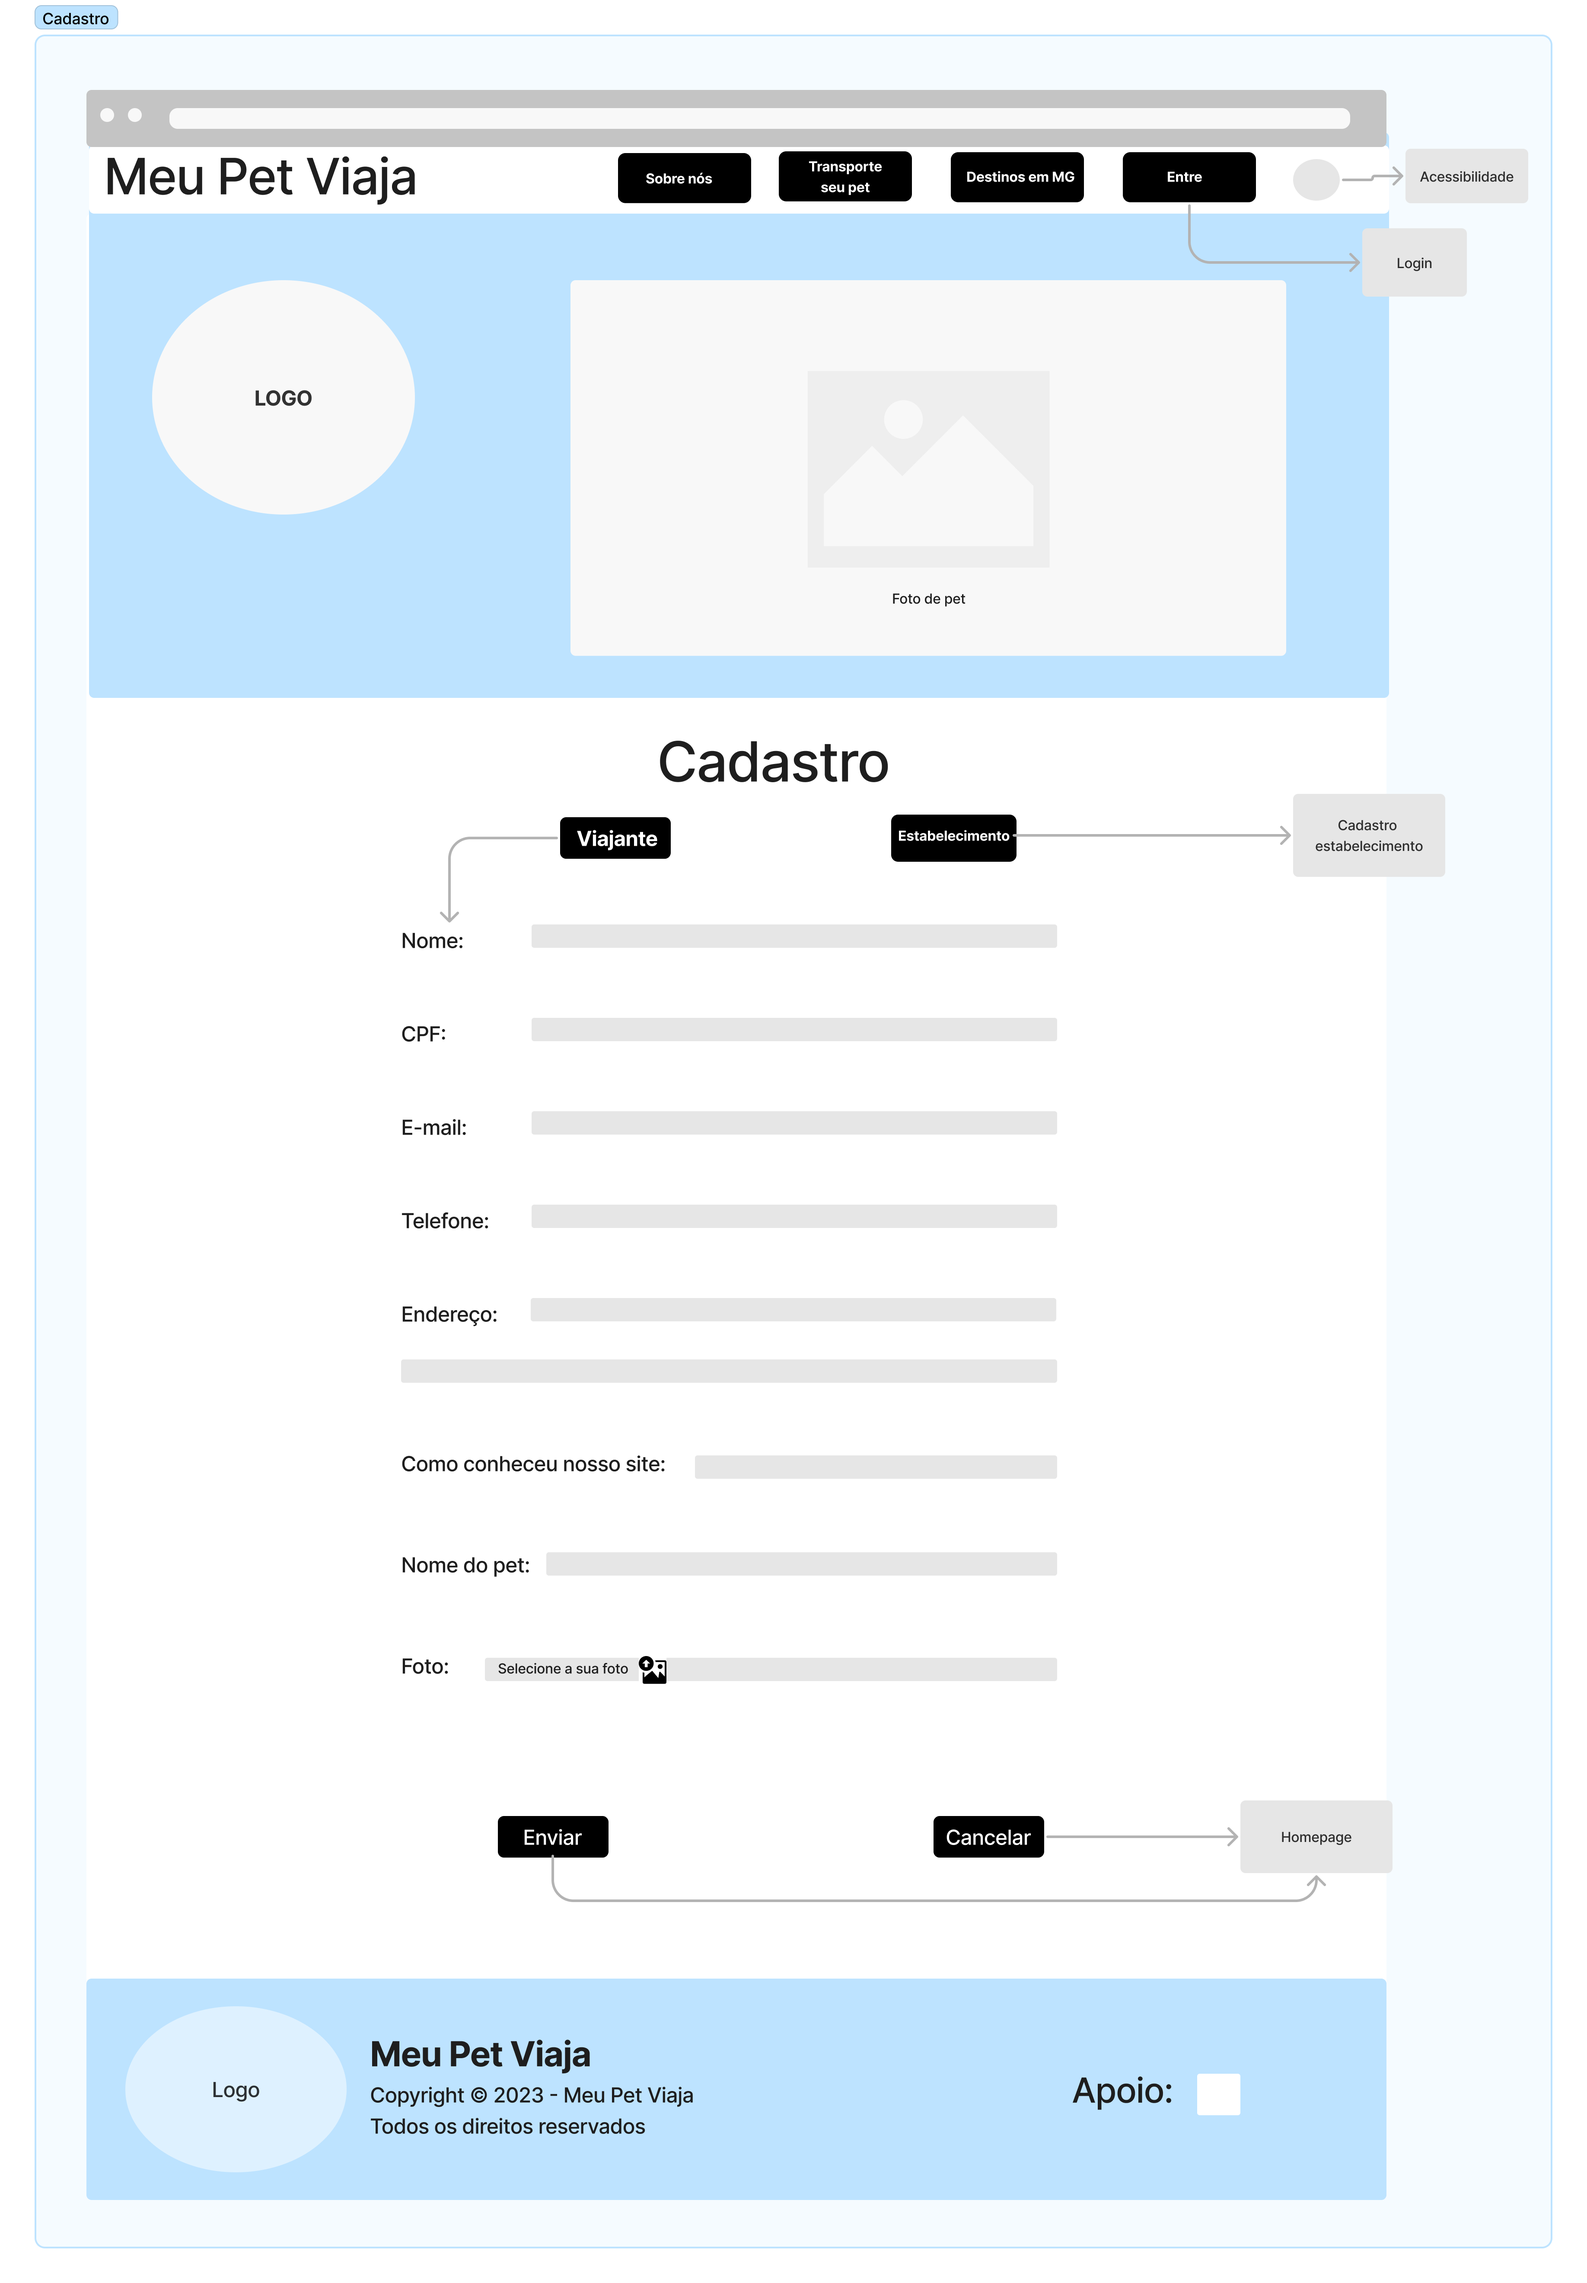
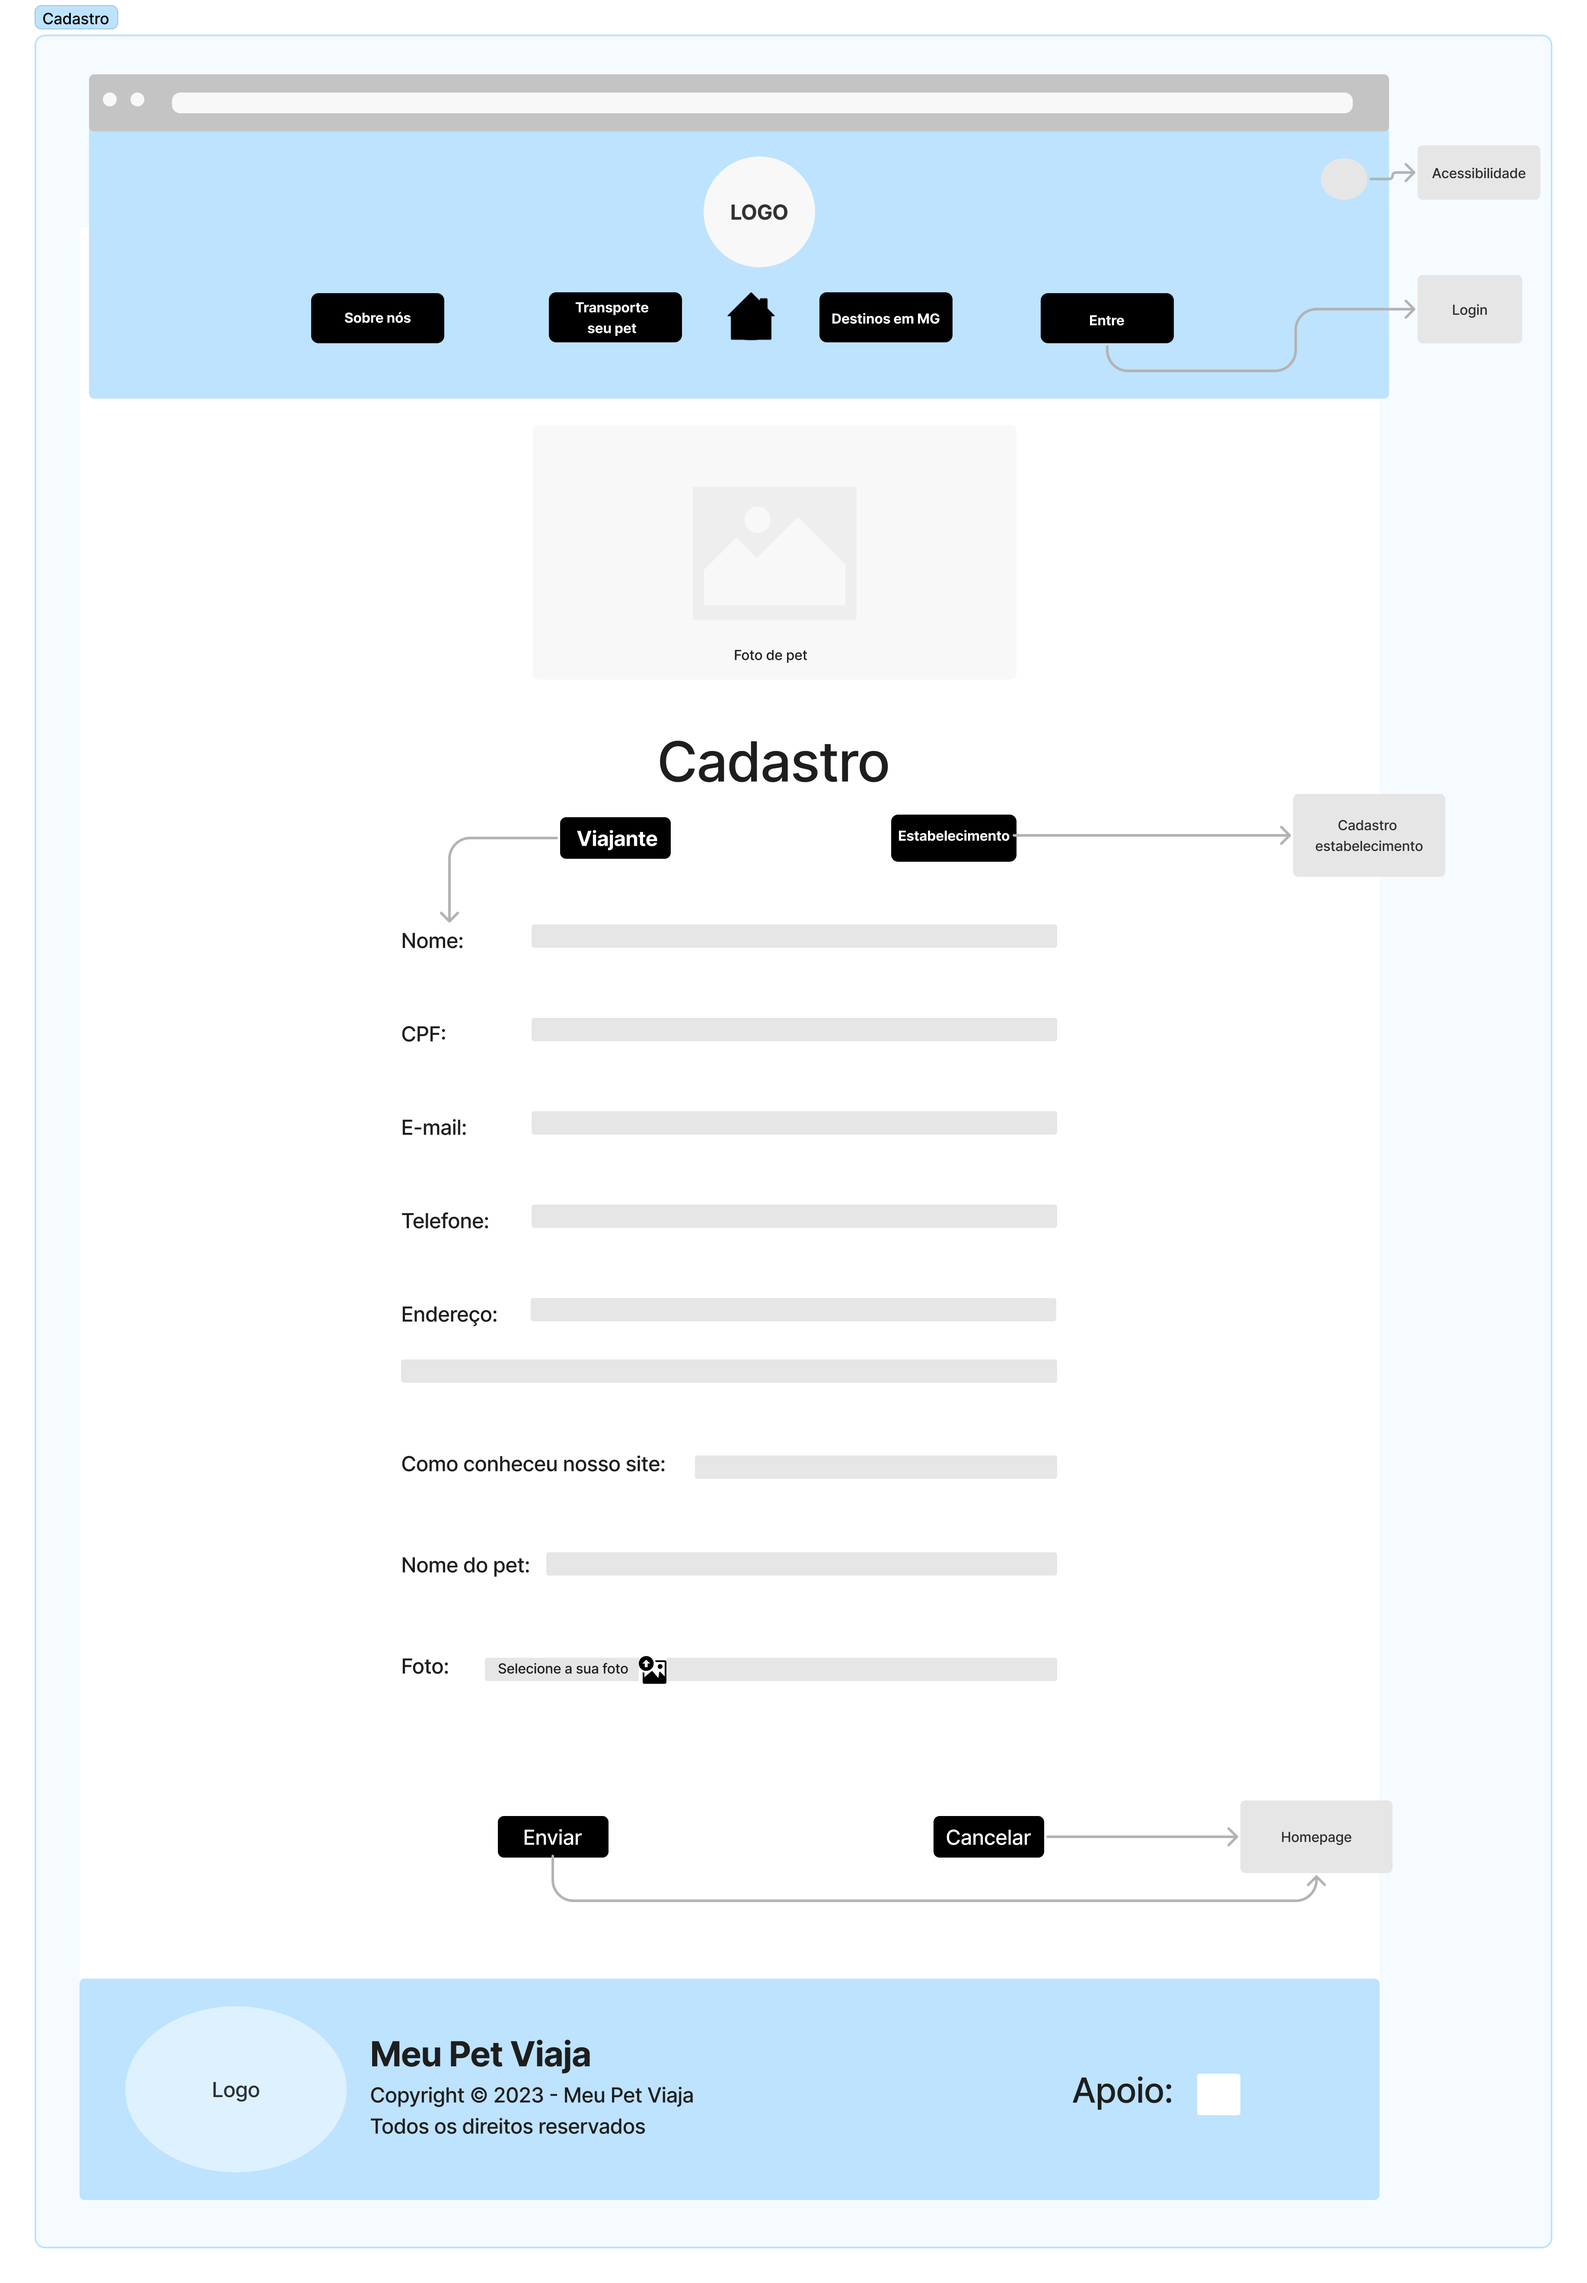
Revisão das wireframes e adição de página
Padronização do menu navegação de todas as páginas e criação da página de destinos em MG #69 #52

Changed region(s): [[0.031, 0.0312, 0.9935, 0.3125], [0.8693, 0.875, 0.9003, 0.9688], [0.031, 0.875, 0.0621, 0.9688]]

diff --git a/docs/interface.md b/docs/interface.md
@@ -20,16 +20,19 @@ A homepage apresenta todas as seções do site ("sobre nós", "transporte seu pe
 
 Após clicar no botão "Veja mais +" na homepage, o usuário será direcionado para a página "Sobre nós". O menu navegação da  página é o mesmo da homepage e o card do topo da página possui a logo do projeto. Abaixo, se encontram fotos pessoais dos criadores com ou sem os seus pet que estarão acompanhadas por um breve texto contendo a apresentação do projeto, a sua motivação e seus objetivos. No rodapé da página, estão os direitos de uso do site e da instituição de apoio do projeto.
 
-<img width="1836" alt="Sobre nós" src="https://user-images.githubusercontent.com/116188910/231491393-ab9d2b74-faeb-4754-9dae-0332f426ed30.png">
+![Wireframe Sobre Nós](img/Sobre_nos.png)
 
 ### Transporte seu Pet
 
 Ao clicar no botão "Transporte seu Pet" contido na homepage, o usuário será direcionado para a página "Transporte seu Pet" na qual o menu navegação é o mesmo da homepage e o card do topo da página possui a logo do projeto. Abaixo, se encontram a opção de filtrar por transporte as regras de viagem de acordo com a necessidade do usuário. As opção cadastradas são avião, carro e ônibus, de acordo com as RF-001, RF-002 e RF-003. Cada seção pode ser indentificada pelo nome e foto que acompanham a sua especificidade de meio de transporte. No rodapé da página, estão os direitos de uso do site e da instituição de apoio do projeto.
 
-<img width="1836" alt="Sobre nós - Dani" src="https://user-images.githubusercontent.com/116188910/233174822-15953667-fe22-4007-955d-246e5702899e.png">
+![Wireframe Transporte Seu Pet](img/Transporte_seu_pet.png)
 
 ### Destinos em MG
 
+Ao clicar no botão "Destinos em MG" contido na homepage, o usuário será redirecionado para a página "Destinos em MG" na qual o menu navegação é o mesmo da homepage e o card do topo da página contém a logo do projeto. Abaixo se encontra uma opção de busca pelos destinos localizados em MG que são pet friendly, cujos filtros de pesquisa serão por tipo de estabelecimento ou cidade ou tipo de estabelecimento em determinada cidade. Mais abaixo aparecerão os destinos mais buscados e os estabelecimentos mais buscados. Também haverá um card com os últimos comentários feitos pelos usuários. No rodapé da página, estão os direitos de uso do site e da instituição de apoio do projeto.
+
+![Wireframe Destinos em MG](img/Destinos.png)
 
 ### Depoimentos
 
@@ -44,7 +47,7 @@ Quando o usuário clicar no botão "Cadastrar Estabelecimento" localizado na pá
 
 ### Login
 
-Esta tela apresenta campos para o usuário inserir seus dados e realizar login, caso seja novo, criar uma conta. 
+Quando o usuário clicar no botão "Entre" localizado no menu navegação da homepage, será redirecionado para a página Login que possui duas opções: ou a opção de inserir os dados para fazer o login para usuários que já possuem cadastro, ou a opção de criar nova conta para usuários que ainda não possuem cadastro no site. No rodapé da página, constam os direitos de uso e a instituição de apoio do projeto.
 
 ![Wireframe Login](img/tela-login.png)
 
